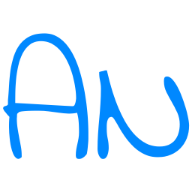
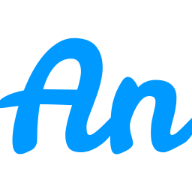
projects

diff --git a/style.css b/style.css
@@ -40,7 +40,7 @@ nav {
 }
 
 .logo img {
-	height: 45px;
+	height: 50px;
 }
 
 nav ul {
@@ -51,7 +51,7 @@ nav ul li a {
 	height: 40px;
 	line-height: 43px;
 	margin: 3px;
-	padding: 0px 22px;
+	padding: 2px 25px;
 	font-size: 0.8rem;
 	text-transform: uppercase;
 	font-weight: 500;
@@ -60,23 +60,26 @@ nav ul li a {
 }
 
 .hey {
-	color: #39bfbd;
+	color: #0099ff;
 	font-weight: 500;
 	font-size: 0.9rem;
-	border-bottom: 2px solid #40c6c4;
+	border-bottom: 2px solid #0099ff;
 }
 
 nav ul li a:hover {
-	background-color: #2adabc;
+	background-color: #44b1fa;
+	border-radius: 3px;
 	color: #fff;
-	box-shadow: 5px 10px 20px rgba(64, 198, 196, 0.25);
+	box-shadow: 5px 10px 20px rgba(54, 138, 194, 0.25);
 	transition: all ease 0.2s;
+	cursor: pointer;
 }
 
 .model img {
 	width: 100%;
 	height: 100%;
 	object-fit: contain;
+	padding-right: 30px;
 }
 
 .model {
@@ -96,7 +99,7 @@ nav ul li a:hover {
 }
 
 .main-text {
-	width: 500px;
+	width: 50%;
 }
 
 .main-text h1 {
@@ -112,17 +115,33 @@ nav ul li a:hover {
 
 .portfolio-btn {
 	width: 190px;
-	height: 44px;
+	height: 45px;
 	display: flex;
 	justify-content: center;
 	align-items: center;
 	color: #fff;
-	background-color: #1db096;
-	border-radius: 20px;
-	box-shadow: 4px 10px 20px rgba(24, 139, 119, 0.25);
+	background: linear-gradient(#38b0ff, #008cff);
+	border-radius: 17px;
+	box-shadow: 4px 10px 20px rgba(24, 103, 139, 0.25);
 }
 
 .portfolio-btn:hover {
-	background-color: #29d8b8;
-	transition: all ease 0.2s;
+	background: #008cff;
+	cursor: pointer;
+}
+
+#project {
+	display: flex;
+	justify-content: center;
+	align-items: center;
+	margin: 30px 0px;
+	flex-direction: column;
+}
+
+.project-heading h3 {
+	color: #1c3548;
+	font-size: 3rem;
+	font-weight: 400;
+	margin: 0px;
+	letter-spacing: 1px;
 }

diff --git a/index.html b/index.html
@@ -25,8 +25,7 @@
 				<!-- menu -->
 				<ul class="menu">
 					<li><a href="#">Home</a></li>
-					<li><a href="#">Skills</a></li>
-					<li><a href="#">Recent</a></li>
+					<li><a href="#">Projects</a></li>
 					<li><a href="#">Client</a></li>
 					<li><a href="#">Contact</a></li>
 				</ul>
@@ -40,11 +39,21 @@
 				</div>
 				<!-- text -->
 				<div class="main-text">
-					<h1>Hello, I'm An Nguyen</h1>
-					<p>Welcome to my portfolio website.</p>
+					<h1>Hello, I'm</br>An Nguyen</h1>
+					<p>I'm a web developer.</p>
 					<!-- btn -->
 					<a href="#" class="portfolio-btn">See My Portfolio</a>
 				</div>
+			</div>
+		</section>
+		<!-- projects  -->
+		<section id="project">
+			<!-- heading -->
+			<div class="project-heading">
+				<h3>Projects</h3>
+			</div>
+			<div class="project-img">
+				<img src="" alt="">
 			</div>
 		</section>
 	</body>

diff --git a/README.md b/README.md
@@ -1,4 +1,5 @@
 # Portfolio
 
-My personal portfolio showcasing some of my web and android projects. Go to https://anthiennguyen.github.io/ for the live demo.
+My personal portfolio showcasing some of the projects I have done.
 
+Checkout the [Live Demo](https://anthiennguyen.github.io/)
